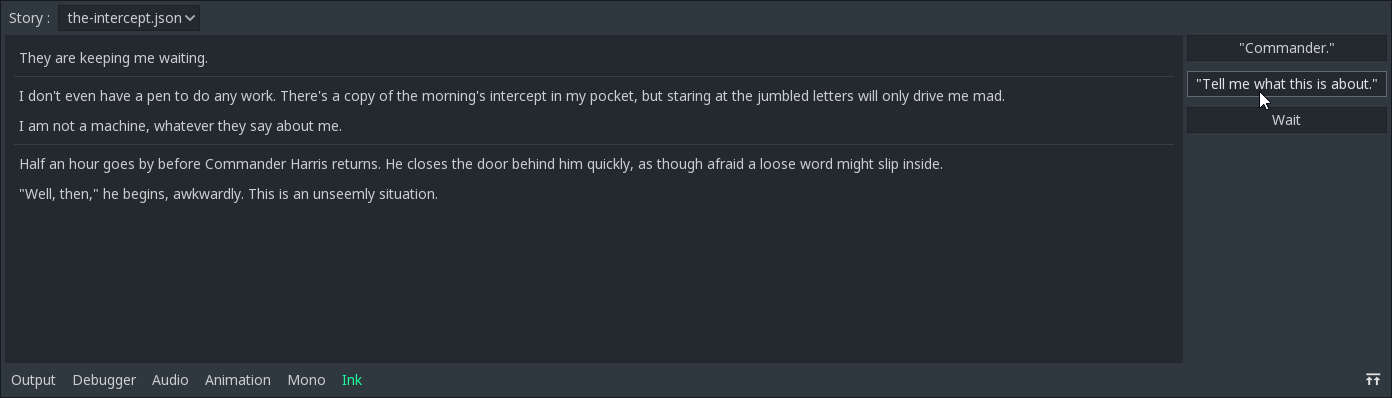
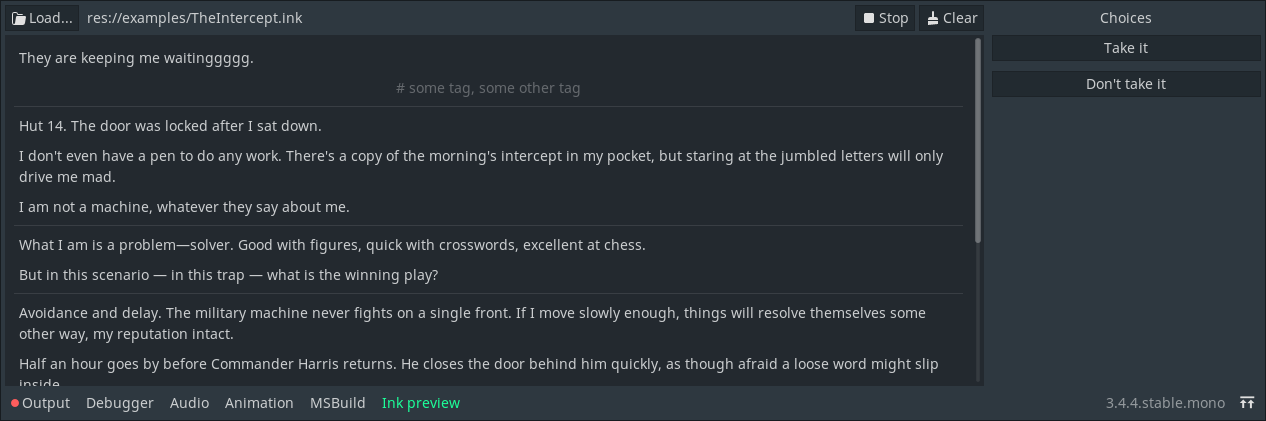
Improve the preview dock

diff --git a/addons/paulloz.ink/InkDock.cs b/addons/paulloz.ink/InkDock.cs
@@ -1,15 +1,22 @@
 #if TOOLS
 using Godot;
+using System.Linq;
 
 [Tool]
 public class InkDock : Control
 {
-    private Label fileName;
-    private Button resetButton;
+    private InkStory story;
+    private bool storyStarted;
+
     private Button loadButton;
     private FileDialog fileDialog;
 
-    private InkStory story;
+    private Label storyNameLabel;
+
+    private Button startButton;
+    private Button stopButton;
+    private Button clearButton;
+
     private VBoxContainer storyText;
     private VBoxContainer storyChoices;
 
@@ -17,70 +24,100 @@ public class InkDock : Control
 
     public override void _Ready()
     {
-        fileName = GetNode<Label>("Container/Top/Label");
-        resetButton = GetNode<Button>("Container/Top/ResetButton");
-        loadButton = GetNode<Button>("Container/Top/LoadButton");
+        // Initialize top.
+        loadButton = GetNode<Button>("Container/Left/Top/LoadButton");
         fileDialog = GetNode<FileDialog>("FileDialog");
-        storyText = GetNode<VBoxContainer>("Container/Bottom/Scroll/Margin/StoryText");
-        storyChoices = GetNode<VBoxContainer>("Container/Bottom/StoryChoices");
-        scroll = GetNode<ScrollContainer>("Container/Bottom/Scroll");
-        story = GetNode<InkStory>("Story");
+        storyNameLabel = GetNode<Label>("Container/Left/Top/Label");
+        startButton = GetNode<Button>("Container/Left/Top/StartButton");
+        stopButton = GetNode<Button>("Container/Left/Top/StopButton");
+        clearButton = GetNode<Button>("Container/Left/Top/ClearButton");
 
-        resetButton.Connect("pressed", this, nameof(OnResetButtonPressed));
-        loadButton.Connect("pressed", this, nameof(OnLoadButtonPressed));
-        fileDialog.Connect("popup_hide", this, nameof(OnFileDialogHide));
-        story.Connect(nameof(InkStory.InkChoices), this, nameof(OnStoryChoices));
-        story.Connect(nameof(InkStory.InkContinued), this, nameof(OnStoryContinued));
-        story.Connect(nameof(InkStory.InkEnded), this, nameof(OnStoryEnded));
+        loadButton.Connect("pressed", fileDialog, "popup_centered");
+        fileDialog.Connect("popup_hide", this, nameof(LoadStoryResource));
+        startButton.Connect("pressed", this, nameof(StartStory));
+        stopButton.Connect("pressed", this, nameof(StopStory));
+        clearButton.Connect("pressed", this, nameof(ClearStory), new Godot.Collections.Array { false });
+
+        // Initialize bottom.
+        storyText = GetNode<VBoxContainer>("Container/Left/Scroll/Margin/StoryText");
+        storyChoices = GetNode<VBoxContainer>("Container/Right/StoryChoices");
+        scroll = GetNode<ScrollContainer>("Container/Left/Scroll");
+
+        // Set icons.
+        loadButton.Icon = GetIcon("Load", "EditorIcons");
+        startButton.Icon = GetIcon("Play", "EditorIcons");
+        stopButton.Icon = GetIcon("Stop", "EditorIcons");
+        clearButton.Icon = GetIcon("Clear", "EditorIcons");
+
+        UpdateTop();
     }
 
-    private void ResetStoryContent()
+    private void UpdateTop()
+    {
+        bool hasStory = story != null;
+
+        storyNameLabel.Text = hasStory ? story.InkFile.ResourcePath : string.Empty;
+
+        startButton.Visible = hasStory && !storyStarted;
+        stopButton.Visible = hasStory && storyStarted;
+        clearButton.Visible = hasStory;
+        clearButton.Disabled = storyText.GetChildCount() <= 0;
+
+        storyChoices.GetParent<Control>().Visible = hasStory;
+    }
+
+    private void LoadStoryResource()
+    {
+        StopStory();
+        story = null;
+
+        if (!string.IsNullOrEmpty(fileDialog.CurrentFile))
+        {
+            story = new InkStory()
+            {
+                AutoLoadStory = false,
+                InkFile = ResourceLoader.Load(fileDialog.CurrentPath),
+            };
+
+            story.Connect(nameof(InkStory.InkContinued), this, nameof(OnStoryContinued));
+            story.Connect(nameof(InkStory.InkChoices), this, nameof(OnStoryChoices));
+            story.Connect(nameof(InkStory.InkEnded), this, nameof(OnStoryEnded));
+
+            AddChild(story);
+        }
+
+        UpdateTop();
+    }
+
+    private void StartStory()
+    {
+        if (story == null) return;
+
+        story.LoadStory();
+        storyStarted = true;
+        story.Continue();
+
+        UpdateTop();
+    }
+
+    private void StopStory()
+    {
+        storyStarted = false;
+        story?.LoadStory();
+
+        ClearStory(true);
+    }
+
+    private void ClearStory(bool clearChoices)
     {
         RemoveAllStoryContent();
-        RemoveAllChoices();
+        if (clearChoices)
+            RemoveAllChoices();
+
+        UpdateTop();
     }
 
-    private void RemoveAllStoryContent()
-    {
-        foreach (Node n in storyText.GetChildren())
-            storyText.RemoveChild(n);
-    }
-
-    private void RemoveAllChoices()
-    {
-        foreach (Node n in storyChoices.GetChildren())
-            storyChoices.RemoveChild(n);
-    }
-
-    private void OnResetButtonPressed()
-    {
-        ResetStoryContent();
-        story.LoadStory();
-        story.Continue();
-    }
-
-    private void OnLoadButtonPressed()
-    {
-        fileDialog.PopupCentered();
-    }
-
-    private void OnFileDialogHide()
-    {
-        ResetStoryContent();
-        fileName.Text = "";
-        if (fileDialog.CurrentFile == null || fileDialog.CurrentFile.Length == 0)
-            resetButton.Disabled = true;
-        else
-        {
-            resetButton.Disabled = false;
-            fileName.Text = fileDialog.CurrentFile;
-            story.InkFile = ResourceLoader.Load(fileDialog.CurrentPath);
-            story.LoadStory();
-            story.Continue();
-        }
-    }
-
-    private void OnStoryContinued(string text, string[] _)
+    private void OnStoryContinued(string text, string[] tags)
     {
         text = text.Trim();
         if (text.Length > 0)
@@ -91,6 +128,18 @@ public class InkDock : Control
                 Text = text,
             };
             AddToStory(newLine);
+
+            if (tags.Length > 0)
+            {
+                newLine = new Label()
+                {
+                    Autowrap = true,
+                    Align = Label.AlignEnum.Center,
+                    Text = $"# {string.Join(", ", tags)}",
+                };
+                newLine.AddColorOverride("font_color", GetColor("font_color_disabled", "Button"));
+                AddToStory(newLine);
+            }
         }
 
         story.Continue();
@@ -148,6 +197,18 @@ public class InkDock : Control
         await ToSignal(GetTree(), "idle_frame");
         await ToSignal(GetTree(), "idle_frame");
         scroll.ScrollVertical = (int)scroll.GetVScrollbar().MaxValue;
+    }
+
+    private void RemoveAllStoryContent()
+    {
+        foreach (Node n in storyText.GetChildren())
+            storyText.RemoveChild(n);
+    }
+
+    private void RemoveAllChoices()
+    {
+        foreach (Node n in storyChoices.GetChildren().OfType<Button>())
+            storyChoices.RemoveChild(n);
     }
 }
 #endif

diff --git a/addons/paulloz.ink/PaullozDotInk.cs b/addons/paulloz.ink/PaullozDotInk.cs
@@ -58,7 +58,7 @@ public class PaullozDotInk : EditorPlugin
 
         // Editor
         dock = GD.Load<PackedScene>(dockScene).Instance() as Control;
-        AddControlToBottomPanel(dock, "Ink");
+        AddControlToBottomPanel(dock, "Ink preview");
     }
 
     public override void _ExitTree()

diff --git a/README.md b/README.md
@@ -36,7 +36,7 @@ I'm pretty sure this will also run fine on MacOS and Android but haven't witness
 
 ## How to use
 
-When the plugin is properly loaded, you should be able to use the new ink panel to inspect your story.
+When the plugin is properly loaded, you should be able to use the new ink preview panel to inspect your story.
 
 ![](screenshots/inspector_screenshot.png)
 
@@ -66,7 +66,8 @@ Getting content from the story is done by calling the `.Continue()` method.
 ```csharp
 InkStory story = GetNode<InkStory>("Story");
 
-while (story.CanContinue) {
+while (story.CanContinue)
+{
     GD.Print(story.Continue());
     // Alternatively, text can be accessed from story.CurrentText
 }
@@ -74,8 +75,10 @@ while (story.CanContinue) {
 
 Choices are made with the `.ChooseChoiceIndex(int)` method.
 ```csharp
-if (story.HasChoices) {
-    foreach (string choice in story.CurrentChoices) {
+if (story.HasChoices)
+{
+    foreach (string choice in story.CurrentChoices)
+    {
         GD.Print(choice);
     }
     ...
